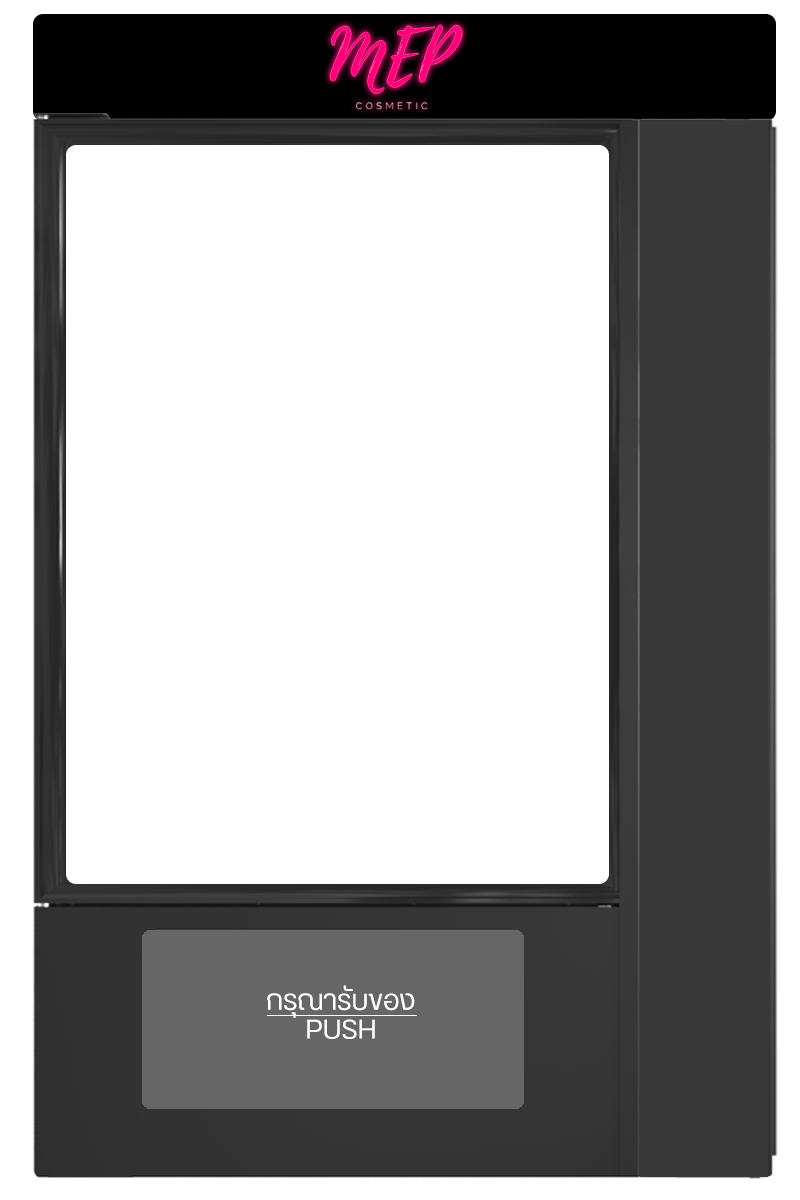
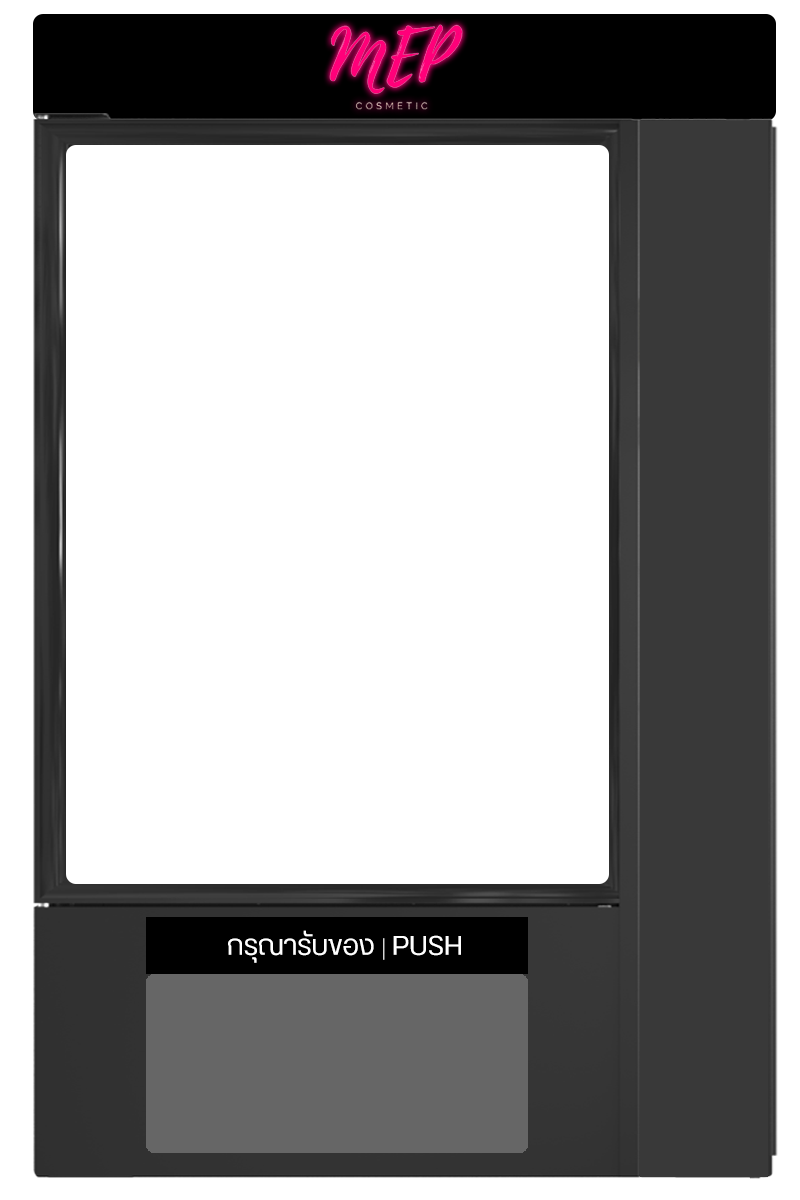
new one no bug!!!!!!
eiei

Changed region(s): [[0.1562, 0.74, 0.6875, 0.9867]]

diff --git a/main.js b/main.js
@@ -6,43 +6,26 @@ var price_cream = 65;
 var balance = 0;
 
 function mascara_minus(paid){
-  if(window.balance < window.price_mascara){
-    window.balance = window.balance + paid;
-  }
-  else if(window.balance > window.price_mascara){
-    window.balance = window.balance - window.price_mascara;
-    alert("ขอบคุณสำหรับการสั่งซื้อ กรุณารับเงินทอน: "+ window.balance)
-    window.balance = 0;
-  }
+  window.balance = window.balance + paid;
   document.getElementById("result_m").innerHTML = window.balance;
   OK_m();
 }
 
 function OK_m(){
-  var btnOK1 = document.getElementById("confirm_m");
+  var pushB1 = document.getElementById("push_m");
+  var cancel1 = document.getElementById("cancelButton");
+
   if(window.balance >= window.price_mascara){
-    btnOK1.disabled = false;
+    pushB1.style.visibility = "visible";
+    cancel1.disabled = true;
   } 
 }
 
-function okAlert_m(){
-  var pushB1 = document.getElementById("push_m");
-  pushB1.disabled = false;
-  if(window.balance > window.price_mascara){
-    window.balance = window.balance - window.price_mascara;
-    alert("ชำระเงินเรียบร้อย รับเงินทอน "+ window.balance + " บาท \nกรุณารับสินค้าที่ช่องด้านล่าง ขอบคุณค่ะ");
-    window.balance = 0;
-  }else{
-    alert("ชำระเงินเรียบร้อย กรุณารับสินค้าที่ช่องด้านล่าง ขอบคุณค่ะ");
-  }
-}
 
 /*-------------------------------------------------------------------------------*/
 
 function lip_minus(paid){
-  if(window.balance < window.price_lip){
-    window.balance = window.balance + paid;
-  }
+  window.balance = window.balance + paid;
   document.getElementById("result_l").innerHTML = window.balance;
   OK_l();
 }
@@ -69,9 +52,8 @@ function okAlert_l(){
 /*-------------------------------------------------------------------------------*/
 
 function cream_minus(paid){
-  if(window.balance < window.price_cream){
-    window.balance = window.balance + paid;
-  }
+  
+  window.balance = window.balance + paid;
   document.getElementById("result_s").innerHTML = window.balance;
   OK_c();
 }
@@ -98,9 +80,7 @@ function okAlert_c(){
 /*-------------------------------------------------------------------------------*/
 
 function foundation_minus(paid){
-  if(window.balance < window.price_foundation){
-    window.balance = window.balance + paid;
-  }
+  window.balance = window.balance + paid;
   document.getElementById("result_f").innerHTML = window.balance;
   OK_f();
 }
@@ -127,9 +107,7 @@ function okAlert_f(){
 /*-------------------------------------------------------------------------------*/
 
 function puff_minus(paid){
-  if(window.balance < window.price_puff){
-    window.balance = window.balance + paid;
-  }
+  window.balance = window.balance + paid;
   document.getElementById("result_p").innerHTML = window.balance;
   OK();
 }
@@ -177,8 +155,7 @@ function alertCancel(){
 }
 
 function pushCon(){
-  var pushC = confirm("รับสินค้าเรียบร้อย ขอบคุณที่ใช้บริการ");
-  if(pushC == true){
-    window.location.assign("index.html");
-  }
+  window.balance = window.balance - window.price_mascara;
+  alert("รับสินค้าเรียบร้อยแล้ว เงินทอน "+ window.balance + " บาท \nขอบคุณที่ใช้บริการ");
+  window.location.assign("index.html");
 }

diff --git a/mascara.html b/mascara.html
@@ -36,10 +36,7 @@
                     <i><img src= "pic/เหรียญ10.png" style = "width: 40px ; height:auto;"></i>
                 </button>
 
-                <button id="confirm_m" class="btn2" disabled style="border-radius:50%; top: 320px; left: 395px; position:absolute;" onclick = "okAlert_m()">
-                    <i><img src= "pic/ปุ่มตกลง.png" style = "width: 40px ; height:auto;"></i>
-                </button>
-                <button id="push_m"  disabled style="border-radius:50%; top: 600px; left: 180px; position:absolute;" onclick = "pushCon()">push</button>
+                <button id="push_m" style="border-radius:50%; top: 600px; left: 180px; position:absolute; visibility: hidden;" onclick = "pushCon()">push</button>
 
                 <p id = "result_m"class="fontDigi" style="top: 120px; left: 395px; position:absolute;">0</p>
             </div>
